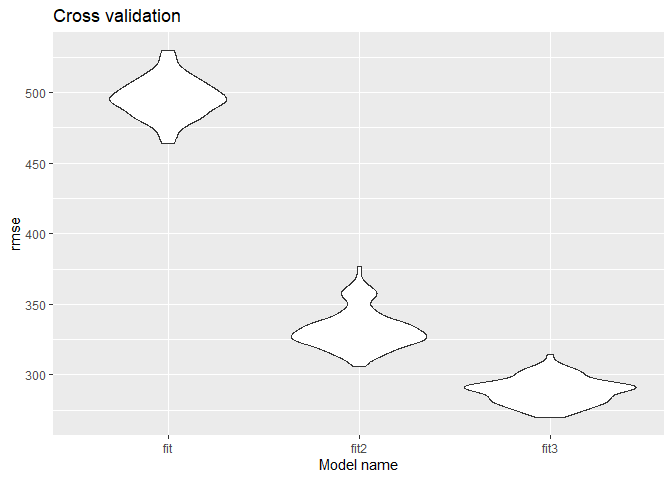
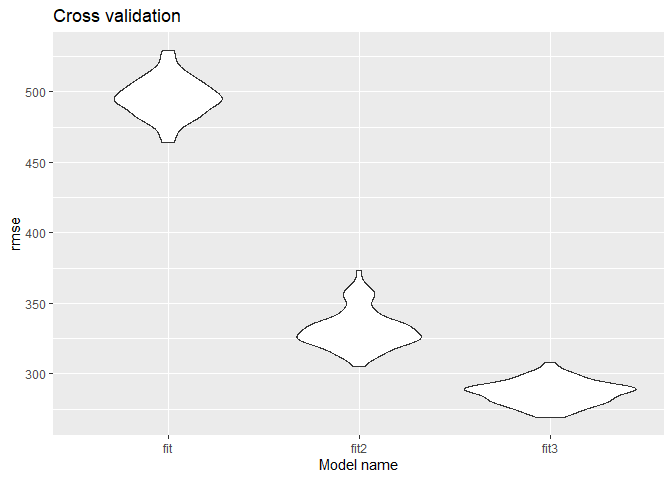
Finishing up after going to office hours

diff --git a/hw6_p8105.md b/hw6_p8105.md
@@ -128,7 +128,12 @@ ggplot(homicide_stat, aes(x = OR, y = city_state)) +
 #ggplot still change my df into list
 ```
 
-Comment on the plot
+My `fct_reorder` and `arrange` function didn’t work, so I couldn’t
+organize the plot based on the OR. But we can see that in most
+city-states, male victim’s cases have lower odds of being solved
+compared to female victim’s. Only 3 city-states where male victim’s
+cases have higher odds of being solved, which are Stockton (CA), Fresno
+(CA), and Albuquerque (NM)- all of which has wide confidence interval.
 
 ## Problem 3
 
@@ -151,8 +156,6 @@ bwt_masterdata = homicide = read.csv("./data/birthweight.csv") %>%
 **3b. Propose a regression model for birthweight. Describe your modeling
 process and show a plot of model residuals against fitted values – use
 add_predictions and add_residuals in making this plot.**
-
-Should I only choose 1 variable? so smoking only OR weight gain only?
 
 ``` r
 #loading packages
@@ -195,7 +198,12 @@ evidence that smoking during pregnancy negatively affects birthweight.
 Meanwhile, while there are evidence of mother’s weight gain positively
 affects birthweight, this effect apparently dependent on the timing of
 the weight gain, with mothers who gain weight during the 2nd trimester
-seems to positively affects birthweight the most.
+seems to positively affects birthweight the most. As the outcome is not
+binary, I used `lm` function with `bwt` as the outcome and `smoken` and
+`wtgain` as the independent predictors. I test the `modelr` package
+individually to ensure the code is correct, then merge them in
+`bwt_model` dataframe. Then I made the plot, with prediction in the x
+axis and residuals in the y axis.
 
 **3c. Compare your model** to two others:
 
@@ -284,11 +292,6 @@ ggplot(bwt_model3, aes(x = pred, y = resid)) +
 **comparison**
 
 ``` r
-#the website say "It’s worth noting, though, that if all the models you want to fit use lm, you can skip this." and since my model both use lm, do I skip them?
-
-#the masterdata become the training data, the models we build become the test data
-#do i still do the 80/20 separation? or does the test data 100% from bwt_masterdata?
-
 cv_df1 = crossv_mc(bwt_masterdata, n = 100, test = 0.2) %>% 
   mutate(
     train = map(train, as_tibble),
@@ -296,9 +299,9 @@ cv_df1 = crossv_mc(bwt_masterdata, n = 100, test = 0.2) %>%
 
 cv_df1 = cv_df1 %>% 
   mutate(
-    fit_mod  = map(train, \(df) lm(bwt ~ smoken + wtgain, data = df)),
-    fit2_mod  = map(train, \(df) lm(bwt ~ blength + gaweeks, data = df)),
-    fit3_mod = map(train, \(df) lm(bwt ~ bhead*blength*babysex + bhead + blength + babysex, data = df))
+    fit_mod  = map(train, \(df) lm(bwt ~ smoken + wtgain, data = bwt_masterdata)),
+    fit2_mod  = map(train, \(df) lm(bwt ~ blength + gaweeks, data = bwt_masterdata)),
+    fit3_mod = map(train, \(df) lm(bwt ~ bhead*blength*babysex + bhead + blength + babysex, data = bwt_masterdata))
   ) %>% 
   mutate(
     rmse_fit = map2_dbl(fit_mod, test, \(mod, df) rmse(model = mod, data = df)),
@@ -324,3 +327,5 @@ cv_df1 %>%
 ```
 
 ![](hw6_p8105_files/figure-gfm/cross_validation-1.png)<!-- -->
+
+As fit3 (model3) has the lowest RMSE, it has the best fit.
